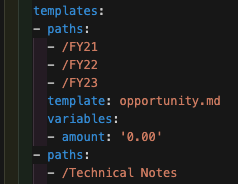
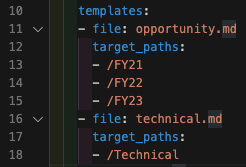
improved template variable functionality

diff --git a/note.py b/note.py
@@ -31,23 +31,25 @@ def run(config, option):
     template = get_template(current_directory, option['templates'])
     print(f"\r\nSelect or enter a note title:")
     file_name = get_folder_item(content_types[1])
-    src_path = os.path.join(source_directory, "templates", template['template'])
+    src_path = os.path.join(source_directory, "templates", template['file'])
     dst_path = os.path.join(current_directory, f"{file_name}{target_extension}")
 
     if exists(src_path):
-        if 'variables' not in template:
-            template['variables'] = []
-        else:
-            variables = template['variables']
         intrinsic_keys = ["title", "datetime"]
-        variables.append({intrinsic_keys[0]: file_name})
-        variables.append({intrinsic_keys[1]: str(datetime.datetime.now())})
+        variables = get_template_variables(src_path)
+        for variable in variables:
+            if list(variable)[0] == intrinsic_keys[0]:
+                variable[intrinsic_keys[0]] = file_name
+            elif list(variable)[0] == intrinsic_keys[1]:
+                variable[intrinsic_keys[1]] = str(datetime.datetime.now())
         for variable in variables:
             key = list(variable)[0]
             default = variable[list(variable)[0]]
             if key not in intrinsic_keys:
-                caption = f"Enter value for {key} [{default}]: "
-                variable[list(variable)[0]] = input(caption) or default
+                caption = f"Enter value for {key}"
+                if default != '':
+                    caption = f"{caption} [{default}]"
+                variable[list(variable)[0]] = input(f"{caption}: ") or default
 
         if not exists(dst_path):
             src_file = open(src_path, "r")
@@ -71,10 +73,11 @@ def run(config, option):
                     break 
                 elif append_text is not None:
                     line = replace_variables(line, variables)                
-                    append_text = f"{append_text}{line}\r\n"
+                    append_text = f"{append_text}{line}"
             dst_file.write(append_text or '')
             src_file.close()
             dst_file.close()
+    return dst_path
 
 def  get_folder_item(content_type):
     items = os.listdir(path=current_directory)
@@ -149,8 +152,8 @@ def get_template(path, templates):
     paths = []
     result = None
     for template in templates:
-        if 'paths' in template.keys():
-            for path in template['paths']:
+        if 'target_paths' in template.keys():
+            for path in template['target_paths']:
                 if new_path[0:len(path)] == path:
                     paths.append(path)
                     break
@@ -159,7 +162,7 @@ def get_template(path, templates):
         if len(path) > len(longest_path):
             longest_path = path
     for template in templates:
-        if 'paths' in template.keys() and longest_path in template['paths']:
+        if 'target_paths' in template.keys() and longest_path in template['target_paths']:
             result = template
             break
     if result is None:
@@ -171,10 +174,12 @@ def get_template(path, templates):
 def replace_variables(line, variables):
     for variable in variables:
         key = list(variable)[0]
+        key_regex = r"\{(" + key + ".*?)\}"
         value = variable[list(variable)[0]]
-        if 'Amount' in line and key == "amount":
-            x=1
-        line = line.replace(f"{{{key}}}", str(value or ''))
+        if key == "amount":
+            line = re.sub(key_regex, value, line)
+        else:
+            line = line.replace(f"{{{key}}}", str(value or ''))
     return line
 
 def create_scratchpad(config):
@@ -184,3 +189,26 @@ def create_scratchpad(config):
         src_filename = "_scratchpad.md"
         src_file = os.path.join(config['source_directory'], "templates", src_filename)
         shutil.copyfile(src_file, dst_file)
+
+def get_template_variables(src_path):
+    variables = []
+    var_regex = r"\{(.*?)\}"
+    delimiter = '='
+
+    with open(src_path, "r") as src_file:
+        template_lines = src_file.readlines()
+        for line in template_lines:
+            vars = re.findall(var_regex, line)
+            for var in vars:
+                if delimiter not in var:
+                    var = f"{var}="
+                name = var[0:var.index(delimiter)]
+                value = var[var.index(delimiter)+1:]
+                var_exists = False
+                for variable in variables:
+                    if list(variable)[0] == name:
+                        var_exists = True
+                        break
+                if not var_exists:
+                    variables.append({name: value})
+    return variables

diff --git a/scribe.py b/scribe.py
@@ -1,5 +1,7 @@
 import util
 import note
+import os
+import re
 
 def get_command():
     print("\rWelcome to Scribe!")
@@ -11,12 +13,25 @@ def get_command():
     return util.get_entry("Selection", range(commands_len))
 
 def run_command(option_index):
+    result = None
     if option_index == 0:
-        note.run(config, config['commands'][option_index]['option'])
+        result = note.run(config, config['commands'][option_index]['option'])
     else:
         print("Feature not implemented yet... goodbye.")
         quit()
-    util.shutdown(3)
+    return result
+
+def run_post_command(target_file):
+    if target_file and config['post_script'] and config['post_script']:
+        message = "Open file? [Y]"
+        entry = input(f"{message}: ")
+        if entry == '':
+            entry = 'Y'
+        if entry.upper()[0:1] == 'Y':
+            var_regex = r"\{(.*?)\}"
+            launch_command = config['post_script']
+            launch_command = re.sub(var_regex, target_file, launch_command)
+            os.system(launch_command)
 
 if __name__ == "__main__":
     initial_run = not util.config_exists()
@@ -24,5 +39,8 @@ if __name__ == "__main__":
     if initial_run:
         note.create_scratchpad(config)
     option_index = get_command()
-    run_command(option_index)
+    target_file = run_command(option_index)
+    run_post_command(target_file)
+    util.shutdown(3)
+
 

diff --git a/util.py b/util.py
@@ -21,21 +21,16 @@ config_template = {
                 "max_cols": 4,
                 "templates": [
                     {
-                        "template": "opportunity.md",
-                        "variables": [
-                            {
-                                "amount": "0.00"
-                            }
-                        ],
-                        "paths": [
+                        "file": "opportunity.md",
+                        "target_paths": [
                             "/FY21",
                             "/FY22",
                             "/FY23",
                         ]
                     },
                     {
-                        "template": "technical.md",
-                        "paths": [
+                        "file": "technical.md",
+                        "target_paths": [
                             "/Technical Notes"
                         ]
                     }
@@ -43,8 +38,9 @@ config_template = {
             }
         }
     ],
-    "working_directory": None,
-    "source_directory": None
+    "post_script": None,
+    "source_directory": None,
+    "working_directory": None
 }
 
 def load_config():

diff --git a/README.md b/README.md
@@ -8,7 +8,7 @@
 
 In today's work-from-anywhere world, keeping everything organized can be a challenge. Scribe works to simplify one aspect of your everyday work life... your daily notes. You take them. You need them. Let's organize them! Scribe follows the '*Less Is More*' mentality. No GUI interface, just a simple command line that can be launched from an icon on your desktop.
 
-<img src="./resources/scribe_giphy.gif" style="zoom:100%;border: 1px solid gray;">
+###### <img src="./resources/scribe_giphy.gif" style="zoom:100%;border: 1px solid gray;">
 
 1. [Overview](#overview)
 2. [Requirements](#requirements)
@@ -83,7 +83,7 @@ This is a command line interface (CLI) tool.  CLIs offer the ability to do repe
 `cd /Users/jsmith/Documents/Projects`
 2. Run the following GIT command:
 `git clone https://github.com/tedweb/scribe.git`
-This will download the project file into the directory from step one. The output should read similar to this:![image](https://raw.githubusercontent.com/tedweb/scribe/main/resources/git_clone.png)
+This will download the project file into the directory from step one. The output should read similar to this:![image](./resources/git_clone.png)
 3. Scribe is now operational. Run the following command to execute:
 `python3 scribe.py`
 
@@ -115,33 +115,61 @@ Here's a screenshot of the UNotes + VSCode interface.
 
 #### Templates
 
-Templates can be created and saved within the 'templates' folder of where Scribe resides. This allows you to automatically apply a custom format to your markdown note depending upon where your note is created. Defining custom templates is a two step process:
+Templates can be used to apply customized formats to your notes. Create and save templates in markdown format with an extension of '.md' within the 'templates' folder. Templates must be references within the config.yml file with the following attributes:
 
-1. Create template (in markdown format) and save within the 'scribe/templates' folder.
-2. Reference template from the config file.
+- file: The name of the template file within the 'templates' folder.
+- target_paths: A list of file paths within your notes directory to determine which template is applied.
 
-Scribe will determine which template to apply based upon the which folder you select to save your note.
+###### ![image-20220216114253258](./resources/template.png)
 
-###### ![image-20220216114253258](resources/template.png)
-
-In the screenshot above, the 'opportunity.md' template will be applied to notes created in the FY21, FY22, FY23 sub-folders.
+In the screenshot above, the 'opportunity.md' template will be applied to notes created in the FY21, FY22, FY23 sub-folders of the notes directory.
 
 - - -
 
 #### Variables
 
-Variables can be defined within the templates. Defining custom templates is a two step process:
+Templates can contain variables with values that will be defined when the note is created.  To create a variable within a template, wrap varible name within curly braces:
 
-1. Create template using curly braces to denote varables. For example, a variable titled 'amount' would be entered as {amount} within the template.
-2. Reference variable and default value from the config file.
+###### ![image-20220216115230336](resources/variable_undefined.png)
 
-###### ![image-20220216114253258](resources/template.png)
+The sample template above has four declared variables:
 
-In the screenshot above, a variable names 'amount' is defined with a default of '0.00'. This requires the template to reference the variable using curly braces (see below).
+- title
+- datetime
+- main course
+- sides
 
-###### ![image-20220216115230336](resources/variable.png)
+Scribe will prompt user to define these variables during note creation:
 
-Scribe will promt user to enter a value (or press return to accept default value) for all variables from the command line.
+###### ![image-20220216115230336](resources/scribe_variable_defining.png)
+
+Note: 'title' and 'datetime' are reserved variable names that can't be overwritten.  Therefore, Scribe will not be prompt user to enter these values. Once these values have been entered from the command line, the note will have all variables replaced with those values.
+
+###### ![image-20220216115230336](resources/variable_defined.png)
+
+------
+
+#### Variables with Default Values
+
+To give a variable a default value, seperate the variable name from the default value with an equal '=' sign:
+
+`{amount=0.00}`
+
+Variables with default values are denoted by square brackets:
+
+###### ![image-20220216115230336](resources/default_values.png)
+
+Simply press the 'Enter' button to accept the default value, or override it with your own value.
+
+------
+
+#### Auto Launch WYSIWYG Editor
+
+Some editors, such as Typora, support opening a specified file from the command line. To have Scribe automatically open a newly created or appended note within Typora, follow the following two steps:
+
+1. 
+2. Edit the 'post_script' attribute of the config.yml file with the following command:
+   `open '{file}' -a typora`
 
 - - -
 
@@ -155,4 +183,4 @@ The `config.yml` file is a YAML file allowing for customizations of the app. Cur
 * `working_directory`: Where your note files are kept.
 * `classifications`: This defines the unifying folder structure to organize your notes
 * `template`: Custom templates can be created and assigned to specific directories within your notes folder.
-* `variables`: Templates can contain variables with default values.
+* `post_script`: 

diff --git a/templates/opportunity.md b/templates/opportunity.md
@@ -1,7 +1,8 @@
 # {title}
 
 **Deal Link:** ...
-**Deal Amount:** {amount}
+**Deal Amount:** 0.00
+**Summary:** ...
 
 - - -
 
@@ -30,11 +31,12 @@
 ...
 
 - - -
+
 **Follow-Up Questions:**
 
 | Question | Answer |
 | -------- | ------ |
-|          |        |
+|  |  |
 
 - - -
 
